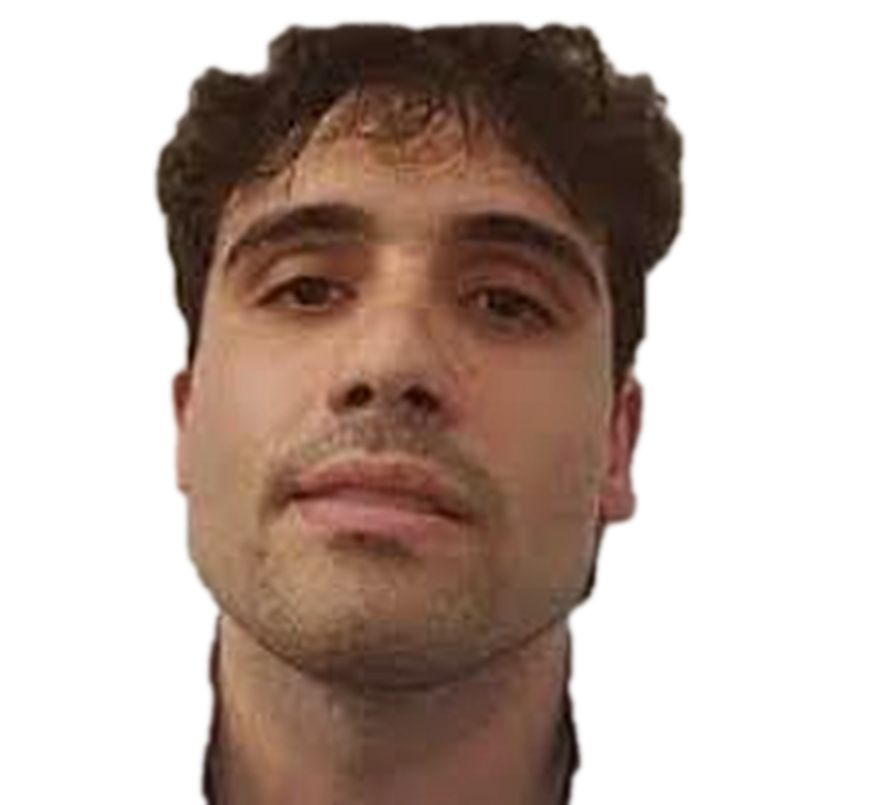
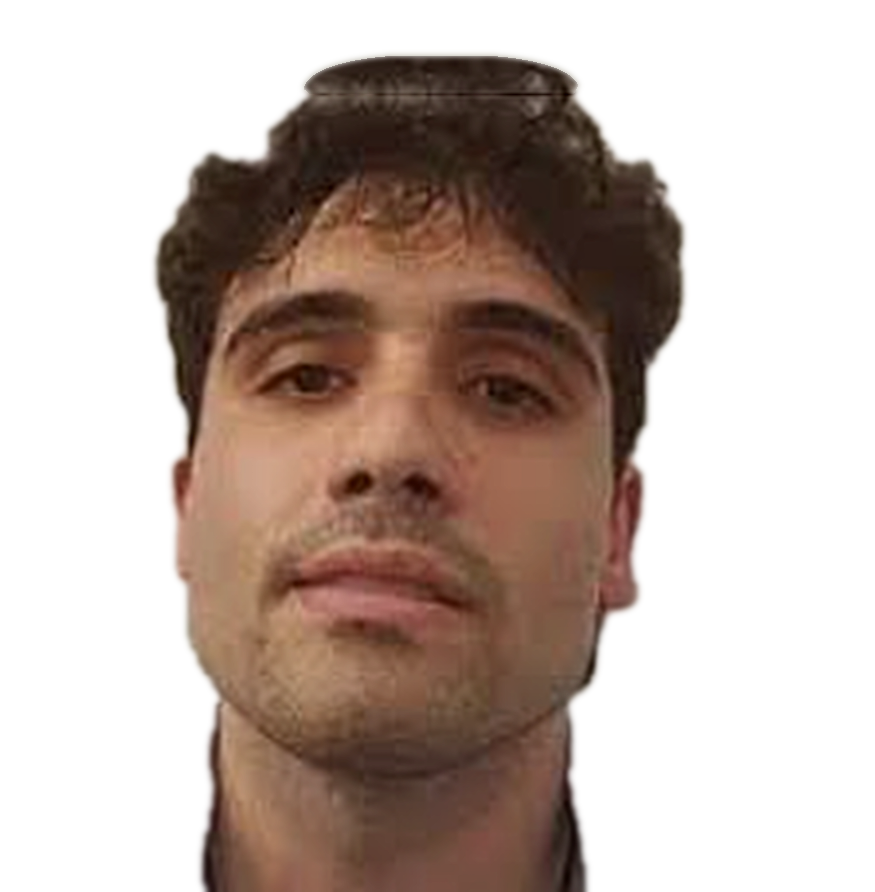
Miniaturas Ovidio con banderas EE.UU./Mexico, rostro completo y nombre arriba a la izquierda
Claude-Session: https://claude.ai/code/session_011QfsHNEVyrMTuqwhNXZ9Nu

diff --git a/la_cosa_nuestra/miniaturas/miniatura_banderas.py b/la_cosa_nuestra/miniaturas/miniatura_banderas.py
@@ -1,0 +1,80 @@
+#!/usr/bin/env python3
+"""Miniatura Ovidio: bandera de EE.UU. a la izquierda, Palacio Nacional con la bandera de Mexico a la derecha, rostro completo al centro.
+Uso: python3 miniatura_banderas.py [carpeta_salida]"""
+import os, sys
+import numpy as np
+from PIL import Image, ImageDraw, ImageFilter, ImageEnhance
+from crear_miniaturas import *
+from miniatura_documental import realzar
+
+
+def rostro_ovidio(altura):
+    im = Image.open(A("ovidio_recorte2.png")).convert("RGBA")
+    ys, xs = np.nonzero(np.asarray(im.split()[3]) > 20)
+    im = im.crop((xs.min(), ys.min(), xs.max() + 1, ys.max() + 1))
+    rgb = im.convert("RGB").filter(ImageFilter.UnsharpMask(2, 90, 2))
+    rgb = realzar(rgb, 1.02, 1.12, 1.1); rgb.putalpha(im.split()[3])
+    return rgb.resize((int(rgb.width * altura / rgb.height), altura), Image.LANCZOS)
+
+
+def mitad(nombre, caja, w, h, k, rgb):
+    im = cargar(nombre); x0, y0, x1, y1 = caja
+    im = im.crop((int(im.width * x0), int(im.height * y0), int(im.width * x1), int(im.height * y1)))
+    im = cover(im, w, h)
+    a = np.asarray(realzar(im, 1.0, 1.1, 1.12)).astype(np.float32) * k * np.array(rgb, np.float32)
+    return Image.fromarray(np.clip(a, 0, 255).astype(np.uint8))
+
+
+def grunge(im, seed=2, fuerza=0.22):
+    """aspecto de bandera vieja: manchas de desgaste, grano de papel y colores algo apagados"""
+    import cv2
+    a = np.asarray(im).astype(np.float32); r = np.random.default_rng(seed)
+    g = a.mean(axis=2, keepdims=True); a = g + (a - g) * 0.82
+    gran = cv2.GaussianBlur(r.normal(0, 1, a.shape[:2]).astype(np.float32), (0, 0), 25) * 60
+    fino = cv2.GaussianBlur(r.normal(0, 1, a.shape[:2]).astype(np.float32), (0, 0), 1.0) * 10
+    pliegue = (r.random(a.shape[:2]) < 0.0006).astype(np.float32); pliegue = cv2.GaussianBlur(pliegue, (0, 0), 2.5) * 900
+    a = a * (1 - fuerza) + (a + gran[..., None] + fino[..., None] + pliegue[..., None]) * fuerza + 6
+    return Image.fromarray(np.clip(a, 0, 255).astype(np.uint8))
+
+
+def insignia(im, centro, r=40):
+    """sello azul de cuenta verificada"""
+    S = 4; capa = Image.new("RGBA", (2 * r * S + 8, 2 * r * S + 8), (0, 0, 0, 0)); d = ImageDraw.Draw(capa); c = r * S + 4
+    import math
+    pts = [(c + (r * S * (0.88 + 0.12 * math.cos(8 * t))) * math.cos(t), c + (r * S * (0.88 + 0.12 * math.cos(8 * t))) * math.sin(t)) for t in np.linspace(0, 2 * math.pi, 400)]
+    d.polygon(pts, fill=(29, 155, 240, 255))
+    d.line([(c - 0.36 * r * S, c + 0.02 * r * S), (c - 0.1 * r * S, c + 0.28 * r * S), (c + 0.4 * r * S, c - 0.26 * r * S)], fill=(255, 255, 255, 255), width=int(0.16 * r * S), joint="curve")
+    capa = capa.resize((capa.width // S, capa.height // S), Image.LANCZOS)
+    b = im.convert("RGBA"); b.alpha_composite(capa, (int(centro[0] - capa.width / 2), int(centro[1] - capa.height / 2))); return b.convert("RGB")
+
+
+def marco(im, g=9):
+    d = ImageDraw.Draw(im)
+    for i in range(g):
+        v = int(170 - 8 * abs(i - g / 2) * 2); d.rectangle((i, i, W - 1 - i, H - 1 - i), outline=(v, v, v + 6))
+    return im
+
+
+def miniatura(variante="A"):
+    izq = grunge(mitad("bg_bandera_eeuu.jpg", (0.17, 0.20, 0.60, 0.62), 760, H, 1.05, (1.0, 1.0, 1.04)))
+    if variante == "A": der = mitad("bg_palacio_bandera.jpg", (0.12, 0.0, 0.88, 1.0), 760, H, 1.05, (0.94, 1.0, 1.12))
+    else: der = mitad("bg_palacio_bandera2.jpg", (0.0, 0.20, 0.36, 0.66), 760, H, 1.05, (1.03, 1.0, 0.97))
+    im = Image.new("RGB", (W, H))
+    ramp = np.clip((np.linspace(0, 1, 760) - 0.55) / 0.45, 0, 1); ramp = 1 - ramp * ramp * (3 - 2 * ramp)
+    m = Image.fromarray((np.tile(ramp, (H, 1)) * 255).astype(np.uint8))
+    im.paste(der, (W - 760, 0)); im.paste(izq, (0, 0), m)
+    im = vineta(im, 0.45)
+    cara = rostro_ovidio(610)
+    x = (W - cara.width) // 2 + 30
+    im = con_brillo(im, cara, (x, H - cara.height + 14), (0, 0, 0), radio=26, intens=0.85, borde=0)
+    sz = 112; nombre = "Ovidio Guzmán"
+    im = texto(im, (40, 14), nombre, sz, BLANCO, trazo=0, sombra=True, ancla="la")
+    wtxt = ancho_texto(nombre, sz, 0)
+    im = insignia(im, (40 + wtxt + 62, 14 + 72), 44)
+    return marco(grano(im, 4))
+
+
+if __name__ == "__main__":
+    out = sys.argv[1] if len(sys.argv) > 1 else os.path.join(os.path.dirname(os.path.abspath(__file__)), "salida")
+    for v in "AB":
+        r = os.path.join(out, f"miniatura_OVIDIO_banderas_{v}.jpg"); miniatura(v).save(r, quality=92, optimize=True); print(r)

diff --git a/la_cosa_nuestra/miniaturas/recorte_ovidio.py b/la_cosa_nuestra/miniaturas/recorte_ovidio.py
@@ -2,18 +2,29 @@
 """Recorta el rostro de assets/ovidio_original.png (captura de baja resolucion) -> assets/ovidio_recorte.png"""
 import os, cv2, numpy as np
 AQUI = os.path.dirname(os.path.abspath(__file__))
-a = cv2.imread(os.path.join(AQUI, "assets", "ovidio_original.png"))[12:, :250]
+a = cv2.imread(os.path.join(AQUI, "assets", "ovidio_original.png"))[13:, :250]
+PAD = 26                                                                       # el pelo toca el borde de arriba: se agrega pared para no recortarlo
+pared = np.median(a[3:12, 8:30].reshape(-1, 3), axis=0)
+a = np.vstack([np.tile(pared.astype(np.uint8), (PAD, a.shape[1], 1)), a])
 big = cv2.resize(a, None, fx=3.5, fy=3.5, interpolation=cv2.INTER_LANCZOS4)
 big = cv2.addWeighted(big, 1.5, cv2.GaussianBlur(big, (0, 0), 3), -0.5, 0)
 H, W = big.shape[:2]
 mask = np.zeros((H, W), np.uint8); bg = np.zeros((1, 65)); fg = np.zeros((1, 65))
-cv2.grabCut(big, mask, (int(0.10 * W), int(0.03 * H), int(0.80 * W), int(0.97 * H)), bg, fg, 8, cv2.GC_INIT_WITH_RECT)
+cv2.grabCut(big, mask, (int(0.08 * W), int((PAD * 3.5 - 25)), int(0.84 * W), H - int(PAD * 3.5 - 25) - 2), bg, fg, 8, cv2.GC_INIT_WITH_RECT)
 m = np.where((mask == 1) | (mask == 3), 255, 0).astype(np.uint8)
 m = cv2.morphologyEx(m, cv2.MORPH_CLOSE, cv2.getStructuringElement(cv2.MORPH_ELLIPSE, (25, 25)))
 m = cv2.morphologyEx(m, cv2.MORPH_OPEN, cv2.getStructuringElement(cv2.MORPH_ELLIPSE, (21, 21)))
 n, lab, st, _ = cv2.connectedComponentsWithStats(m)
 m = np.where(lab == 1 + np.argmax(st[1:, 4]), 255, 0).astype(np.uint8)
-m = cv2.GaussianBlur(m, (0, 0), 2.5)
+# el pelo viene cortado por el borde de la captura: se reconstruye la cupula de rizos reflejando las filas de arriba
+ys = np.nonzero(m.max(axis=1) > 0)[0]; y0 = int(ys[0]) + 3
+xs = np.nonzero(m[y0 + 2] > 0)[0]; xc, hw = (xs[0] + xs[-1]) / 2, (xs[-1] - xs[0]) / 2
+D = 38
+for d in range(1, D + 1):
+    ancho = hw * 1.04 * max(0.0, 1 - (d / (D + 2)) ** 2.4) ** (1 / 2.4)
+    xx = np.arange(W); dentro = (np.abs(xx - xc) <= ancho) & (m[y0 + d] > 0)
+    big[y0 - d, dentro] = (big[y0 + d, dentro] * 0.93).astype(np.uint8); m[y0 - d, dentro] = 255
+m = cv2.GaussianBlur(m, (0, 0), 3.0)
 out = cv2.cvtColor(big, cv2.COLOR_BGR2BGRA); out[..., 3] = m
 cv2.imwrite(os.path.join(AQUI, "assets", "ovidio_recorte.png"), out)
 prev = np.full_like(big, (30, 30, 190)); al = (m / 255.0)[..., None]

diff --git a/la_cosa_nuestra/miniaturas/recorte_ovidio_ref.py b/la_cosa_nuestra/miniaturas/recorte_ovidio_ref.py
@@ -1,0 +1,25 @@
+#!/usr/bin/env python3
+"""Recorta el rostro (con el pelo completo) de la imagen de referencia del usuario (assets/ref_ovidio_8.png) -> assets/ovidio_recorte2.png"""
+import os, cv2, numpy as np
+AQUI = os.path.dirname(os.path.abspath(__file__))
+a = cv2.imread(os.path.join(AQUI, "assets", "ref_ovidio_8.png"))[50:576, 310:720]
+big = cv2.resize(a, None, fx=2.5, fy=2.5, interpolation=cv2.INTER_CUBIC)
+H, W = big.shape[:2]
+mask = np.full((H, W), cv2.GC_PR_BGD, np.uint8)
+x0, y0, x1 = int(0.04 * W), int(0.02 * H), int(0.96 * W)
+mask[:y0] = cv2.GC_BGD; mask[:, :int(0.03 * W)] = cv2.GC_BGD; mask[:, int(0.97 * W):] = cv2.GC_BGD
+mask[y0:, x0:x1] = cv2.GC_PR_FGD
+# semillas seguras: centro de la cara
+mask[int(0.30 * H):int(0.85 * H), int(0.30 * W):int(0.70 * W)] = cv2.GC_FGD
+bg = np.zeros((1, 65)); fg = np.zeros((1, 65))
+cv2.grabCut(big, mask, None, bg, fg, 10, cv2.GC_INIT_WITH_MASK)
+m = np.where((mask == 1) | (mask == 3), 255, 0).astype(np.uint8)
+m = cv2.morphologyEx(m, cv2.MORPH_CLOSE, cv2.getStructuringElement(cv2.MORPH_ELLIPSE, (25, 25)))
+m = cv2.morphologyEx(m, cv2.MORPH_OPEN, cv2.getStructuringElement(cv2.MORPH_ELLIPSE, (15, 15)))
+n, lab, st, _ = cv2.connectedComponentsWithStats(m)
+m = np.where(lab == 1 + np.argmax(st[1:, 4]), 255, 0).astype(np.uint8)
+m = cv2.GaussianBlur(m, (0, 0), 2.2)
+out = cv2.cvtColor(big, cv2.COLOR_BGR2BGRA); out[..., 3] = m
+cv2.imwrite(os.path.join(AQUI, "assets", "ovidio_recorte2.png"), out)
+prev = np.full_like(big, (30, 30, 190)); al = (m / 255.0)[..., None]
+cv2.imwrite(os.environ.get("PREV", "/tmp/prev.jpg"), np.hstack([big, (big * al + prev * (1 - al)).astype(np.uint8)]))

diff --git a/la_cosa_nuestra/miniaturas/CREDITOS_MINIATURAS.md b/la_cosa_nuestra/miniaturas/CREDITOS_MINIATURAS.md
@@ -25,3 +25,9 @@
 - AMX-VCI del Ejército Mexicano — Mizael Contreras, CC BY-SA 4.0 — https://commons.wikimedia.org/wiki/File:AMX-VCI_del_Ej%C3%A9rcito_Mexicano.jpg
 - Palacio Nacional (balcón) — Diego Delso, CC BY-SA 3.0 — https://commons.wikimedia.org/wiki/File:Balc%C3%B3n_principal_del_Palacio_Nacional,_M%C3%A9xico_D.F.,_M%C3%A9xico,_2013-10-16,_DD_103.JPG
 - Aeropuerto de Culiacán — arcklp, CC BY-SA 3.0 — https://commons.wikimedia.org/wiki/File:Culiacan_International_Airport.jpg
+
+## Ovidio — banderas
+- Bandera de EE.UU. ondeando — IceuImgflip, CC BY-SA 4.0 — https://commons.wikimedia.org/wiki/File:American_Flag_Waving_in_the_Wind.jpg
+- Zócalo capitalino (bandera de México) — Trinidad87, CC BY-SA 3.0 — https://commons.wikimedia.org/wiki/File:Z%C3%B3calo_capitalino.JPG
+- Balcón del Palacio Nacional — Diego Delso, CC BY-SA 3.0 (ver arriba)
+- Rostro: recortado de la imagen de referencia enviada por el usuario (pelo completo).
